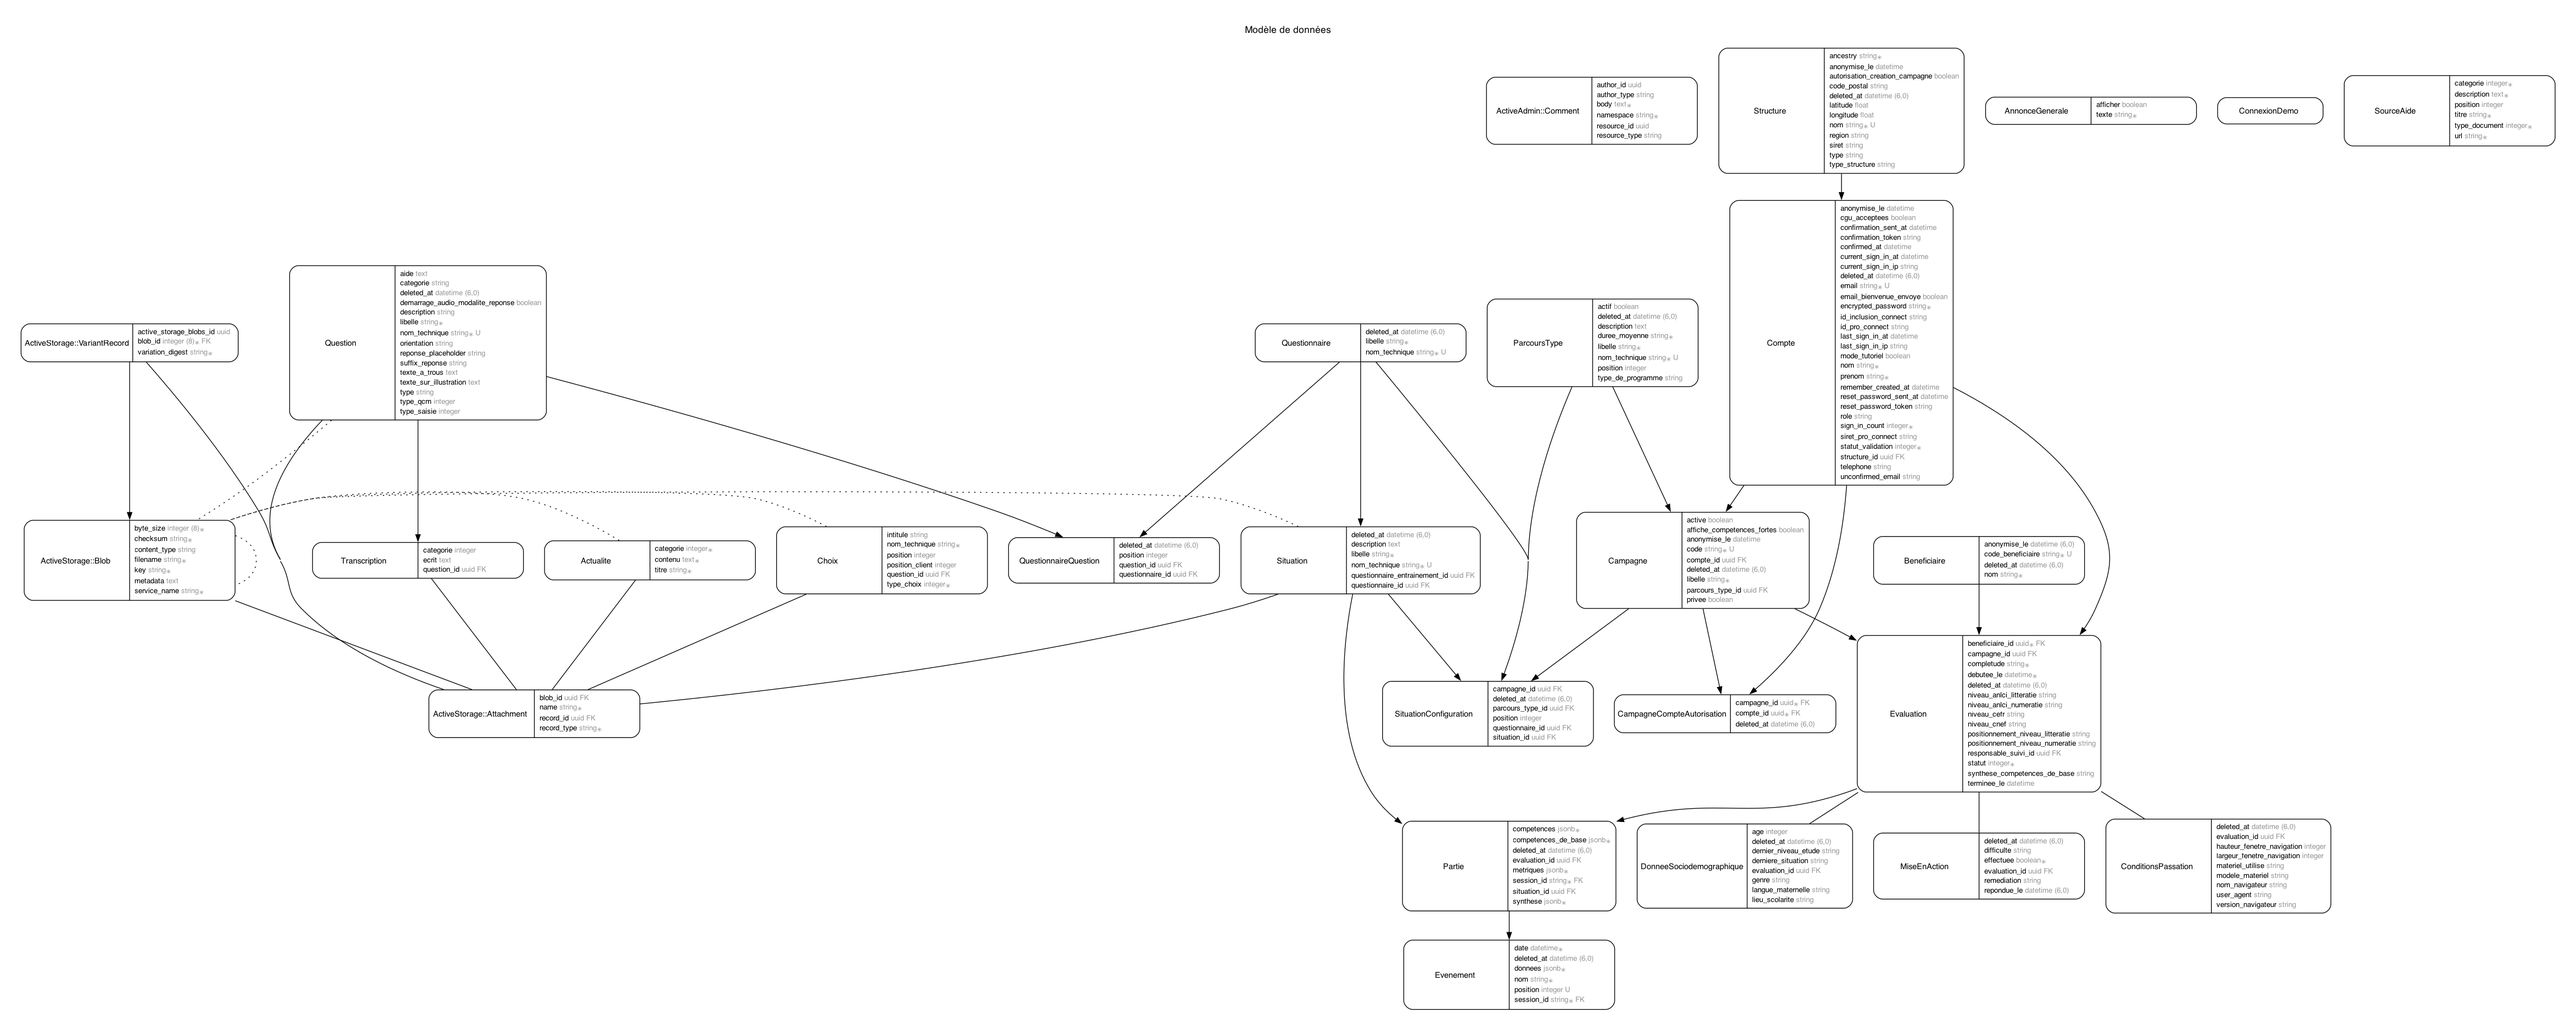
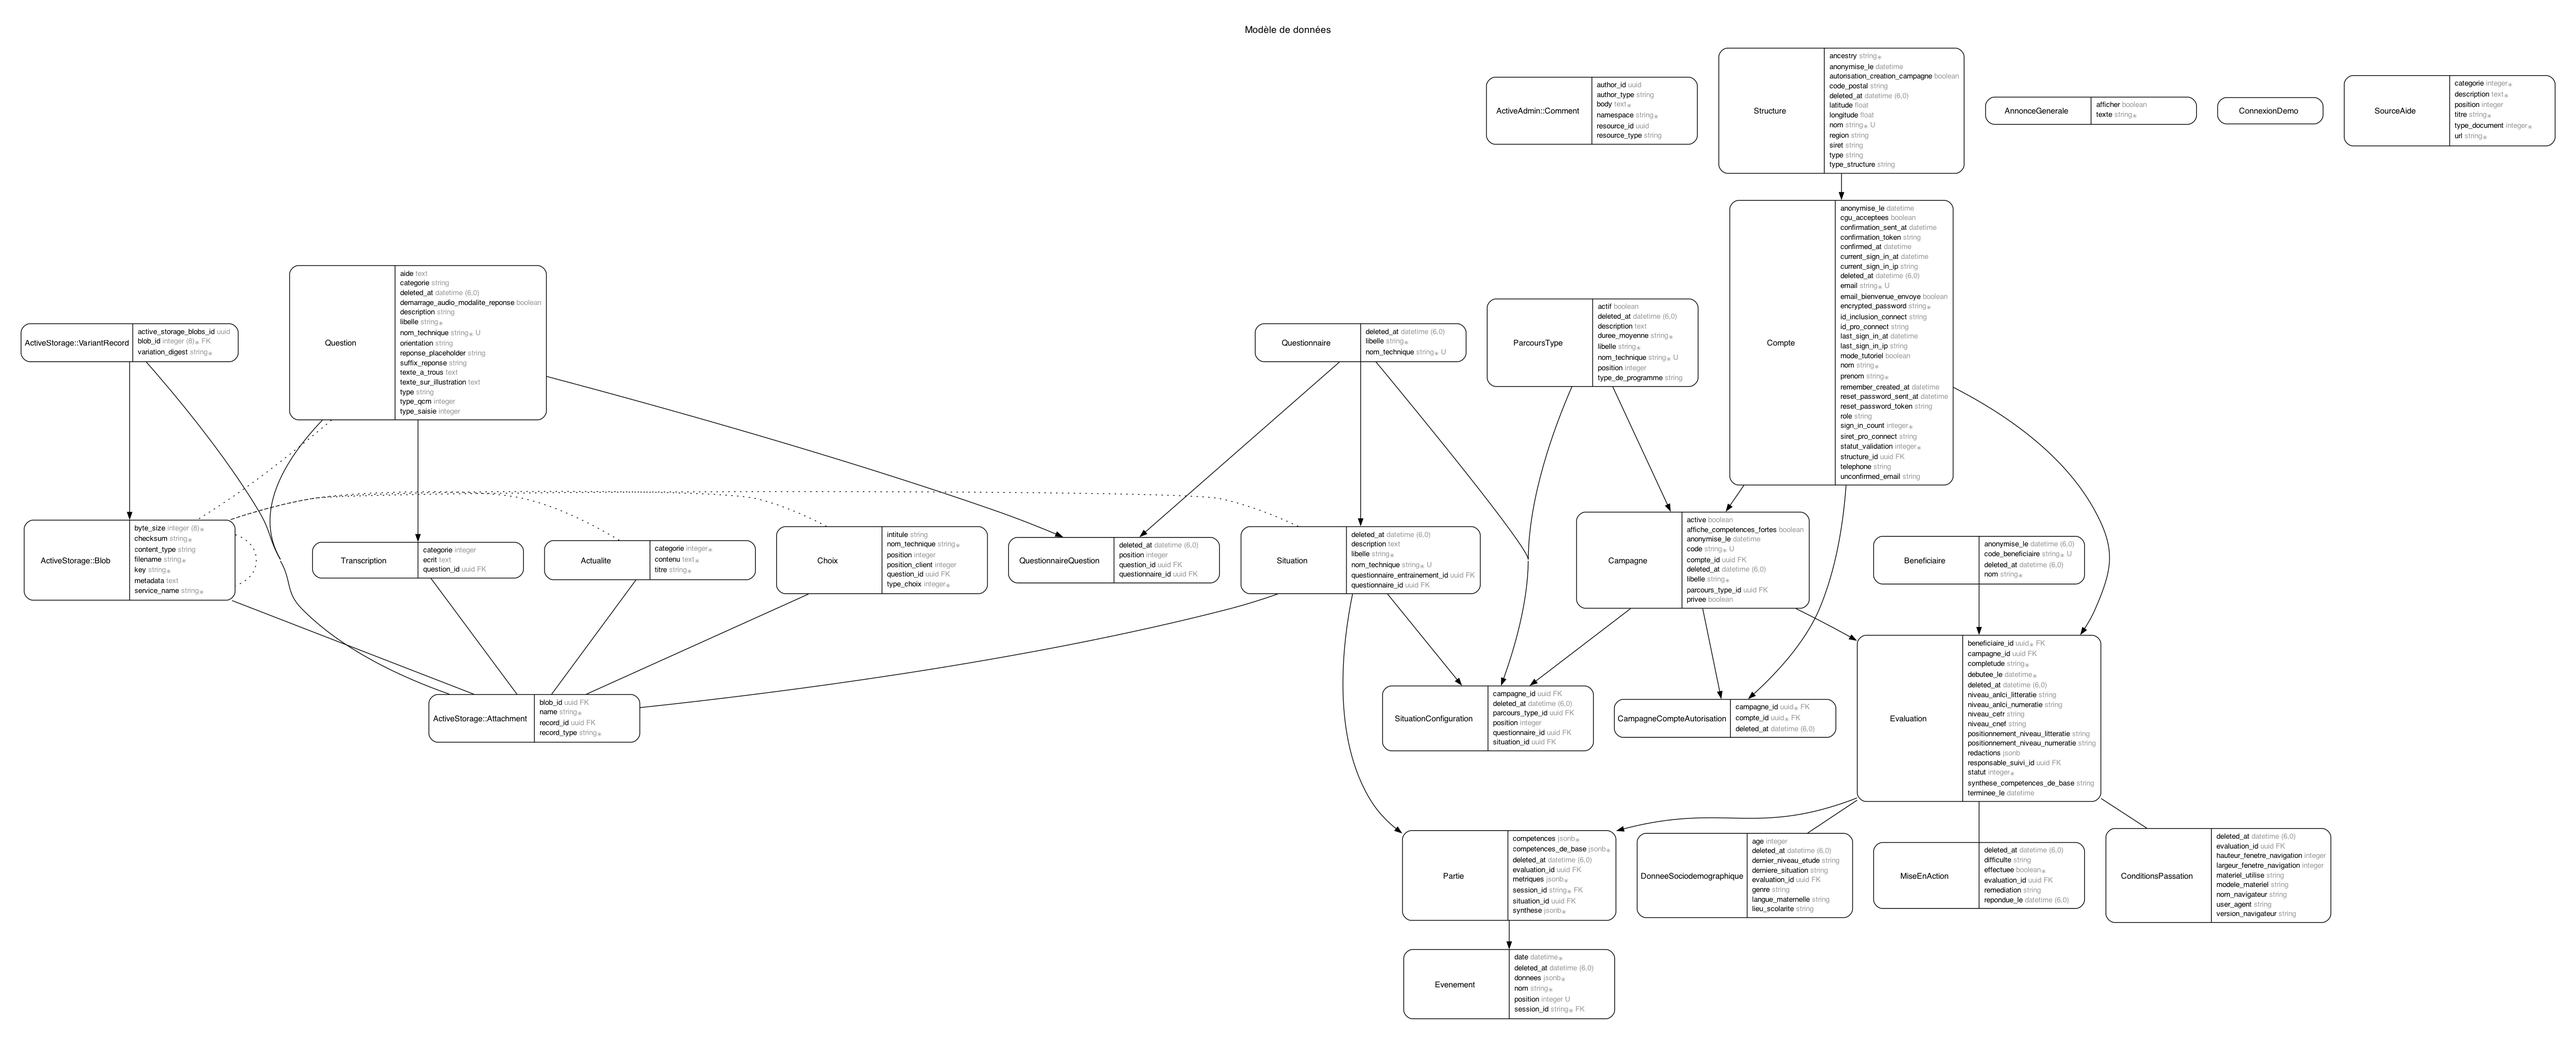
🗃 Ajoute la colonne redaction à la table évaluation

diff --git a/db/schema.rb b/db/schema.rb
@@ -10,7 +10,7 @@
 #
 # It's strongly recommended that you check this file into your version control system.
 
-ActiveRecord::Schema[7.2].define(version: 2025_10_01_145843) do
+ActiveRecord::Schema[7.2].define(version: 2025_10_08_130855) do
   # These are extensions that must be enabled in order to support this database
   enable_extension "pgcrypto"
   enable_extension "plpgsql"
@@ -222,6 +222,7 @@ ActiveRecord::Schema[7.2].define(version: 2025_10_01_145843) do
     t.uuid "responsable_suivi_id"
     t.string "positionnement_niveau_litteratie"
     t.string "positionnement_niveau_numeratie"
+    t.jsonb "redactions"
     t.index ["beneficiaire_id"], name: "index_evaluations_on_beneficiaire_id"
     t.index ["campagne_id"], name: "index_evaluations_on_campagne_id"
     t.index ["deleted_at"], name: "index_evaluations_on_deleted_at"

diff --git a/db/migrate/20251008130855_ajoute_redactions_a_evaluations.rb b/db/migrate/20251008130855_ajoute_redactions_a_evaluations.rb
@@ -1,0 +1,5 @@
+class AjouteRedactionsAEvaluations < ActiveRecord::Migration[7.2]
+  def change
+    add_column :evaluations, :redactions, :jsonb
+  end
+end
